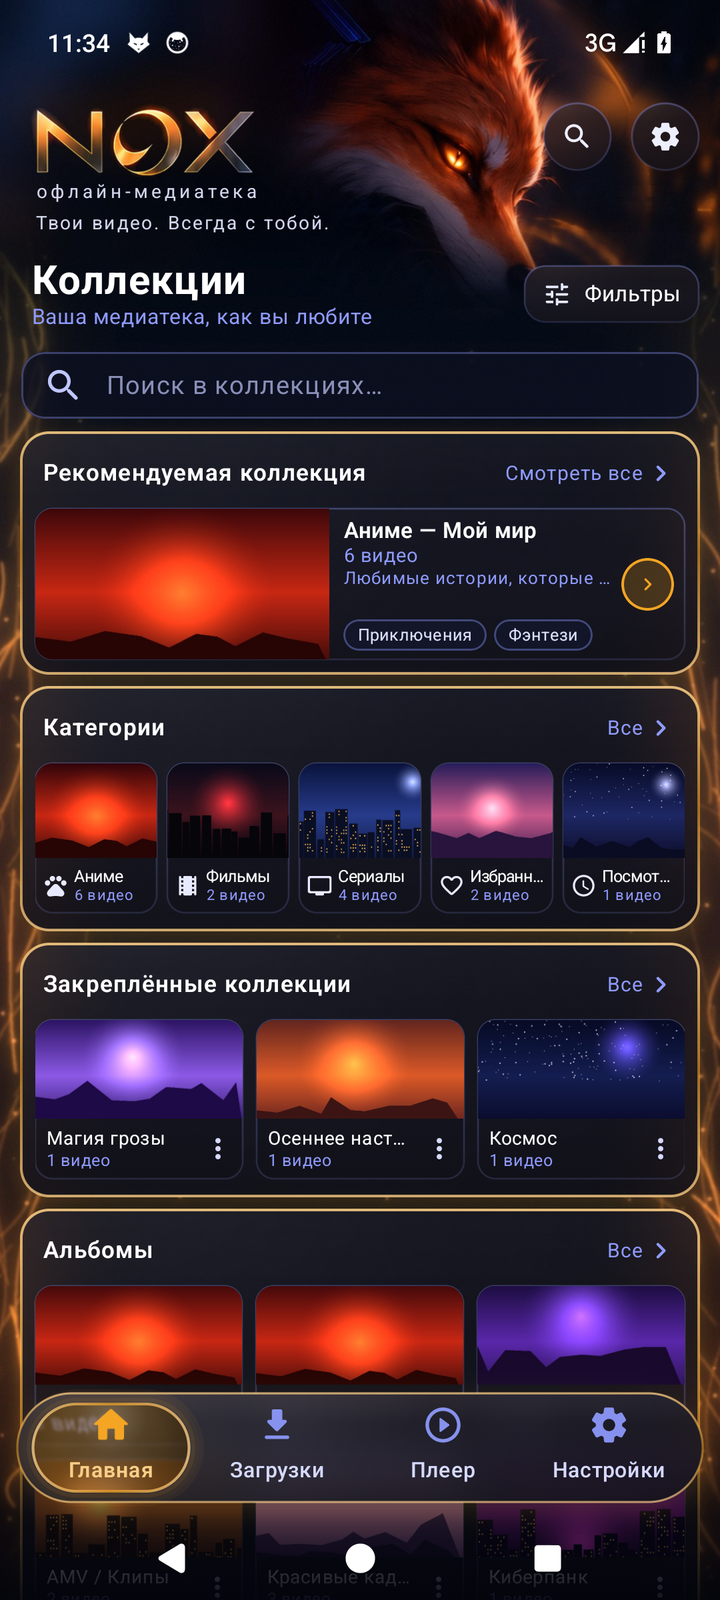
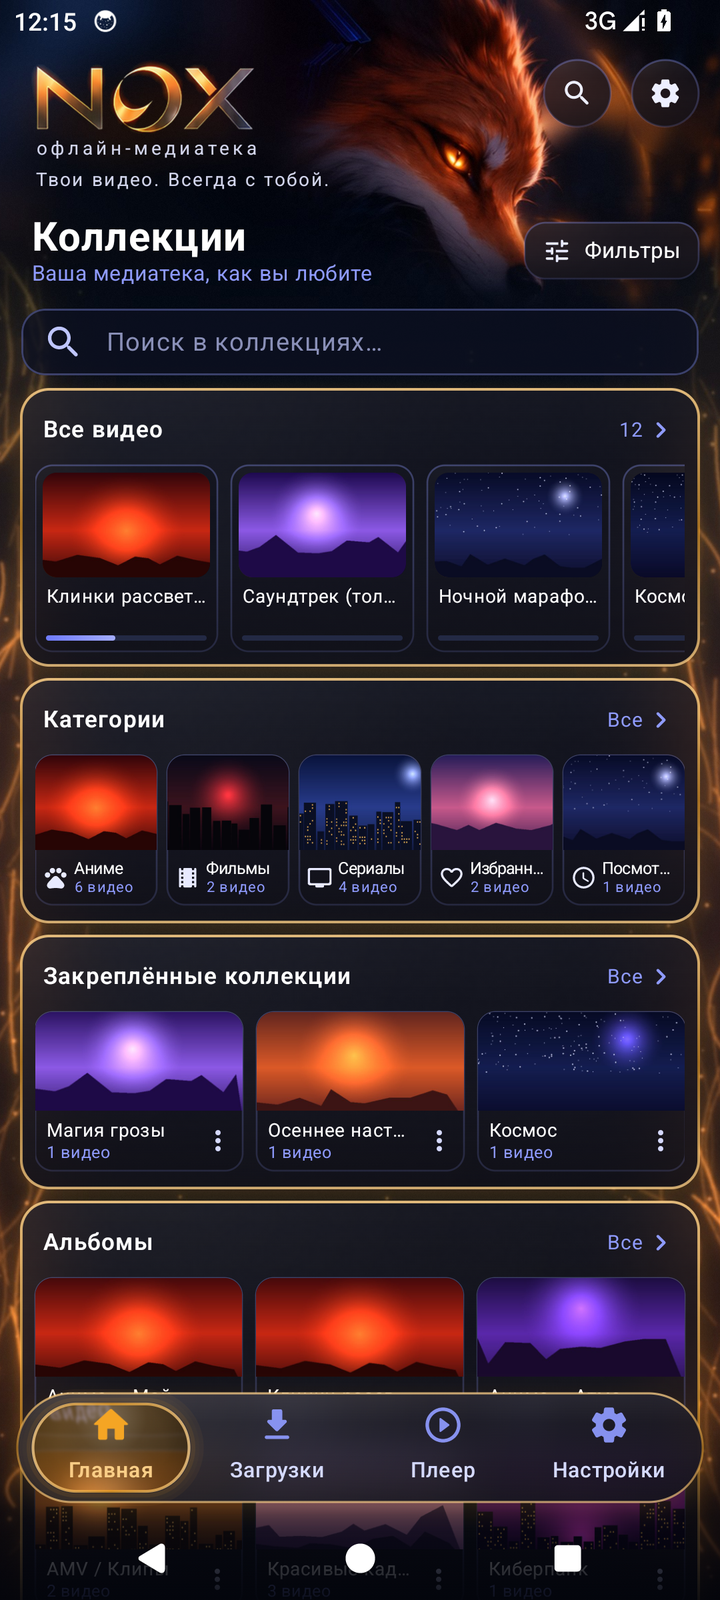
NOX 0.4.3: длинные MP4 без нехватки памяти, главная без «Рекомендуемой коллекции», двойное нажатие на вкладку, надёжное скачивание обновления
- Плеер: MP4 с большим индексом разбирается без таблиц в куче
  (LargeMp4Extractor): у 15-часового файла пик +15 МиБ вместо +150 МиБ при
  пределе 256 МиБ; при той же занятости памяти, при которой прежний
  разборщик падал с OutOfMemoryError в calculateAccumulatedSampleSizes,
  фильм открывается и перематывается. Необычные файлы — прежним путём.
- Главная: блок «Рекомендуемая коллекция» убран; снимок главной обновлён.
- Нижняя панель: двойное нажатие на вкладку — в начало раздела.
- Обновление: системное задание (UIDT / dataSync), докачка с части,
  повторы, ожидание сети, скорость и остановки на экране, проверка
  SHA-256 и подписи отдельно; заметки к выпуску 0.4.3.

Claude-Session: https://claude.ai/code/session_013pNjq6cn2YdQAuRQYLSNyp

diff --git a/android/release-notes/0.4.3.md b/android/release-notes/0.4.3.md
@@ -8,7 +8,7 @@ NOX 0.4.3: многочасовые MP4 открываются без нехва
 - **Отчёт об ошибке воспроизведения** различает нехватку памяти и повреждение файла и показывает, сколько памяти занято и каким путём разбирался MP4.
 - **Главная.** Блок «Рекомендуемая коллекция» убран целиком, без пустого места. «Все видео», категории, закреплённые коллекции, альбомы и поиск остались; коллекции создаются и правятся как раньше, сохранённые коллекции не тронуты.
 - **Двойное нажатие на вкладку** нижней панели возвращает к началу этого раздела, а если начало уже открыто — прокручивает его наверх. Одиночное нажатие работает как раньше. Фильм, загрузки и другие вкладки при этом не сбрасываются. В TalkBack у вкладок есть действие «В начало раздела».
-- **Скачивание обновления.** APK теперь несёт система: на Android 14 — задание передачи данных, начатое пользователем, на Android 13 и ниже — служба с уведомлением. NOX можно свернуть и заблокировать экран. Скачанная часть хранится и после перезапуска, обрыв продолжается с того же места (Range), без сети NOX ждёт её, временная ссылка GitHub обновляется без потери скачанного. Видно, сколько скачано из скольких, фактическую скорость, оставшееся время, «ожидание сети», «повтор через N с» и «передача остановилась». SHA-256, подпись и versionCode проверяются как раньше, отдельным этапом. Если файл скачался, пока NOX свёрнут, приходит уведомление «скачан и проверен»; установка — по нажатию. Проверенный файл второй раз не скачивается.
+- **Скачивание обновления.** APK теперь несёт система: на Android 14 — задание передачи данных, начатое пользователем, на Android 13 и ниже — служба с уведомлением. NOX можно свернуть и заблокировать экран. Скачанная часть хранится и после перезапуска, обрыв продолжается с того же места (Range), без сети NOX ждёт её, временная ссылка GitHub обновляется без потери скачанного. Видно, сколько скачано из скольких, фактическую скорость, оставшееся время, «ожидание сети», «повтор через N с» и «передача остановилась»; нехватка места видна сразу, до начала скачивания. SHA-256, подпись и versionCode проверяются как раньше, отдельным этапом. Если файл скачался, пока NOX свёрнут, приходит уведомление «скачан и проверен»; установка — по нажатию. Проверенный файл второй раз не скачивается.
 
 ---
 
